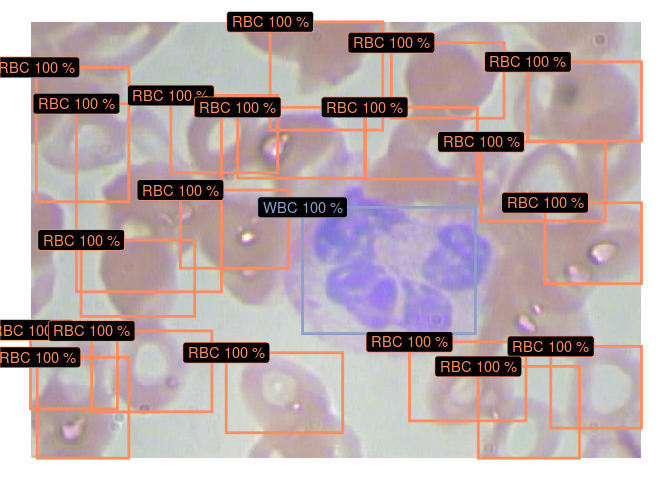
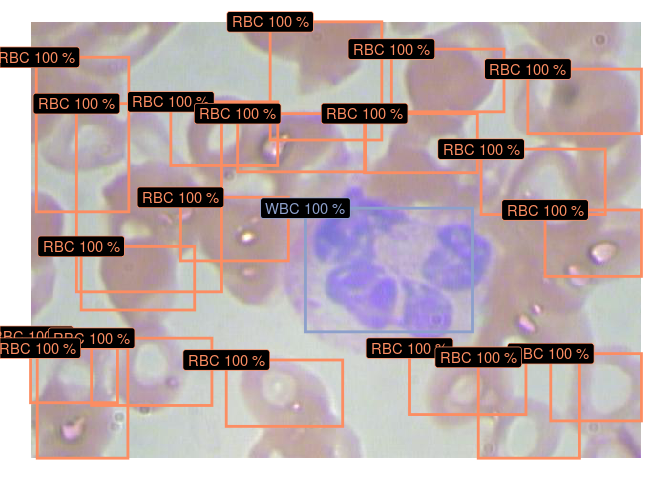
Add ability to save plots

diff --git a/README.md b/README.md
@@ -182,7 +182,7 @@ blood_anchors <- generate_anchors(
   anchors_per_grid = anchors_per_grid, # Number of anchors (per one grid) to generate
   annot_path = annot_path, # Annotations directory
   labels = blood_labels, # Class labels
-  n_iter = 10, # Number of k-means++ iterations
+  n_iter = 1000, # Number of k-means++ iterations
   annot_format = "pascal_voc", # Annotations format
   seed = 55, # Random seed
   centroid_fun = mean # Centroid function
@@ -199,32 +199,32 @@ blood_anchors <- generate_anchors(
 blood_anchors
 #> [[1]]
 #> [[1]][[1]]
-#> [1] 0.3552235 0.4417515
+#> [1] 0.3548552 0.4395951
 #> 
 #> [[1]][[2]]
-#> [1] 0.2911290 0.3292675
+#> [1] 0.2826833 0.3241228
 #> 
 #> [[1]][[3]]
-#> [1] 0.1971296 0.2346442
+#> [1] 0.1954375 0.2319032
 #> 
 #> 
 #> [[2]]
 #> [[2]][[1]]
-#> [1] 0.1757463 0.1592062
+#> [1] 0.1760417 0.1572016
 #> 
 #> [[2]][[2]]
-#> [1] 0.1652637 0.2065506
+#> [1] 0.1642789 0.2367366
 #> 
 #> [[2]][[3]]
-#> [1] 0.1630269 0.2439239
+#> [1] 0.1631230 0.2017863
 #> 
 #> 
 #> [[3]]
 #> [[3]][[1]]
-#> [1] 0.1391842 0.1769376
+#> [1] 0.1364492 0.1733593
 #> 
 #> [[3]][[2]]
-#> [1] 0.1245985 0.2258089
+#> [1] 0.1261678 0.2273329
 #> 
 #> [[3]][[3]]
 #> [1] 0.06237392 0.08062560
@@ -293,7 +293,7 @@ test_boxes <- get_boxes(test_preds, blood_anchors, blood_labels,
                         obj_threshold = 0.6)
 
 plot_boxes(images_paths = test_img_paths, boxes = test_boxes,
-  labels = blood_labels)
+  labels = blood_labels, save_dir = "development")
 ```
 
 ![](man/figures/README-unnamed-chunk-13-1.png)![](man/figures/README-unnamed-chunk-13-2.png)![](man/figures/README-unnamed-chunk-13-3.png)
